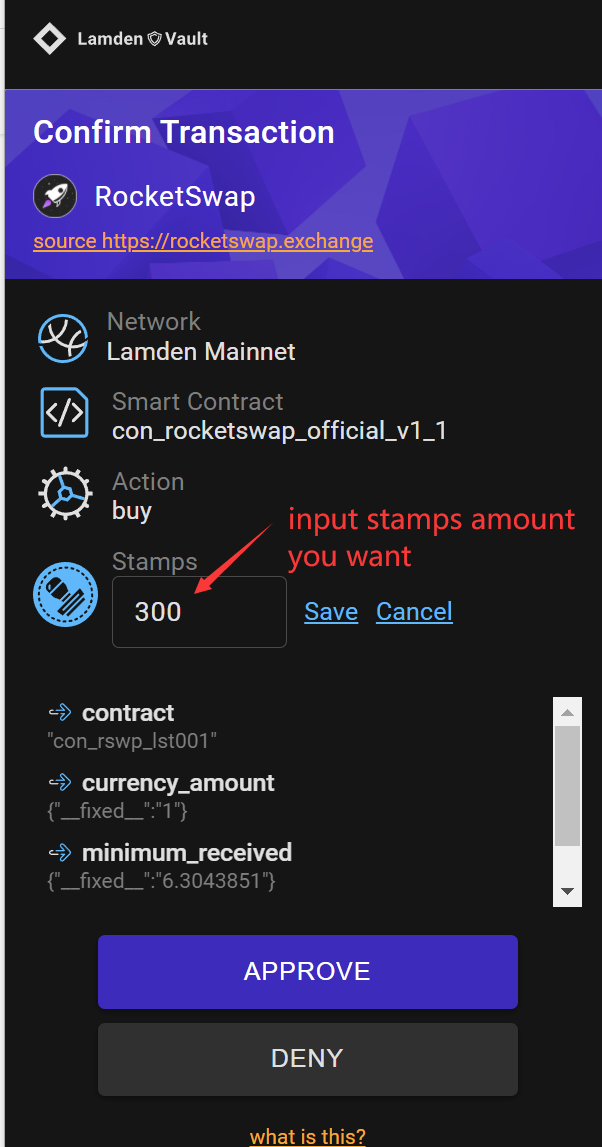
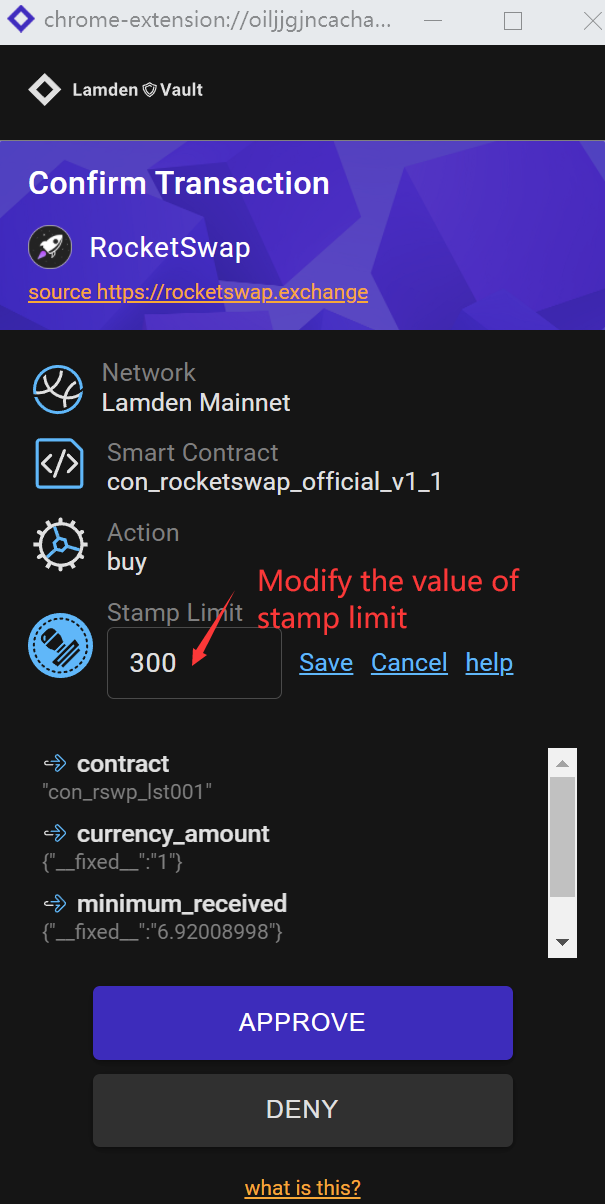
Change stamps to stamp limit

diff --git a/docs/wallet/accounts_linked_transfer.md b/docs/wallet/accounts_linked_transfer.md
@@ -20,16 +20,16 @@ Here is an explanation of the parts of the popup and why they are important to y
 2. **Smart Contract:** This is the smart contract that this transaction will be going to. This value is auto-populated by the Lamden Vault and should be the smart contract that you approved durring the <u>[Linked Account Creation](/docs/wallet/accounts_linked_create)</u> process.
 3. **Network:** This is the network the transaction will be processed on. The values are either "Lamden Mainnet" or "Lamden Testnet".
 4. **Action:** The "method" on the smart contract that this transaction will invoke. If you are not sure what this method does, maybe ask the DAPP developer directly. Ideally, the developer of the smart contract has given this method a name that reflects the DAPP action to be performed that created the popup.
-5. **Stamps:** TAU is converted to stamps to pay for transactions. As the transaction progresses it accrues stamps. The transaction will halt when the stamp amount is reached; so make sure to provide enough stamps to allow the transaction to complete. If you provide an amount of stamps that would exceed the amount of TAU in your account then the transaction will fail immediately.
+5. **Stamp Limit:** TAU is converted to stamps to pay for transactions. As the transaction progresses it accrues stamps. The transaction will halt when the stamp amount is reached; so make sure to provide enough stamps to allow the transaction to complete. If you provide an amount of stamps that would exceed the amount of TAU in your account then the transaction will fail immediately.
 6. **Data:** Any additional information under "Action" will be sent as data in the transction and utilized by the smart contract while processing your transaction. Take a look at this data to see if it accurately reflects the intention of your action. Depending on the action and smart contract, the data may or may not be discernable by you. You can always check with the DAPP developer if you are unsure what data they are sending.
 
 If you are confident with the contents of the popup then click "APPROVE" and the Lamden Vault will sign and send the transaction.
 If you aren't sure you can always click "DENY" and no transaction will be sent.
 
-## How To Change The Stamps Amount?
+## How To Change The Stamp Limit Argument?
 
 1. Click `Change` button
-2. Modify the stamps amount. Please make sure to provide enough stamps or you wiil get a error message displayed.
+2. Modify the value of stamp limit. Please make sure to provide enough stamps or you wiil get a error message displayed.
 
    ![](/img/wallet/change_stamps_setp_1.png)
 
